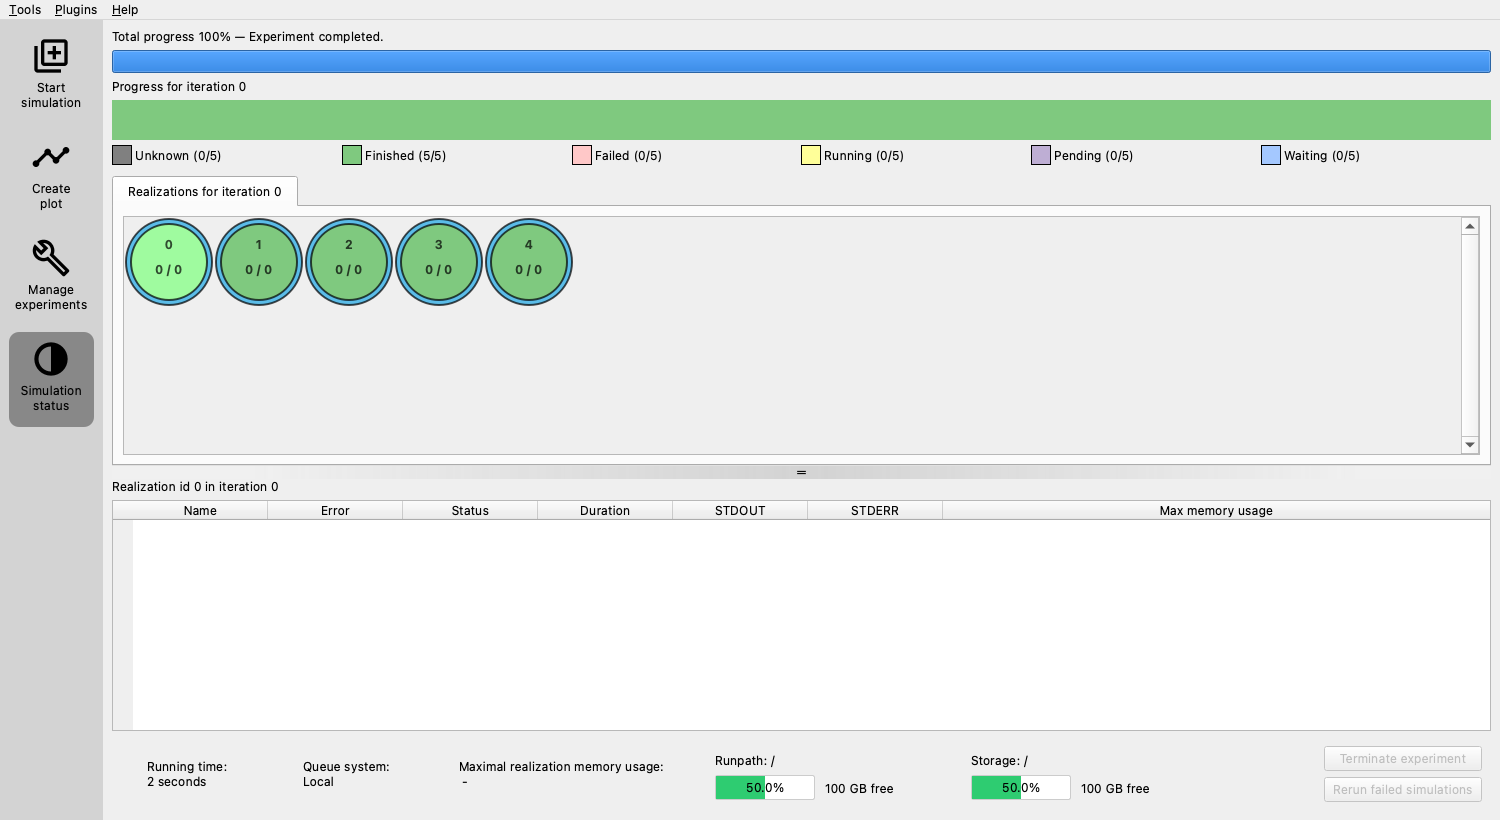
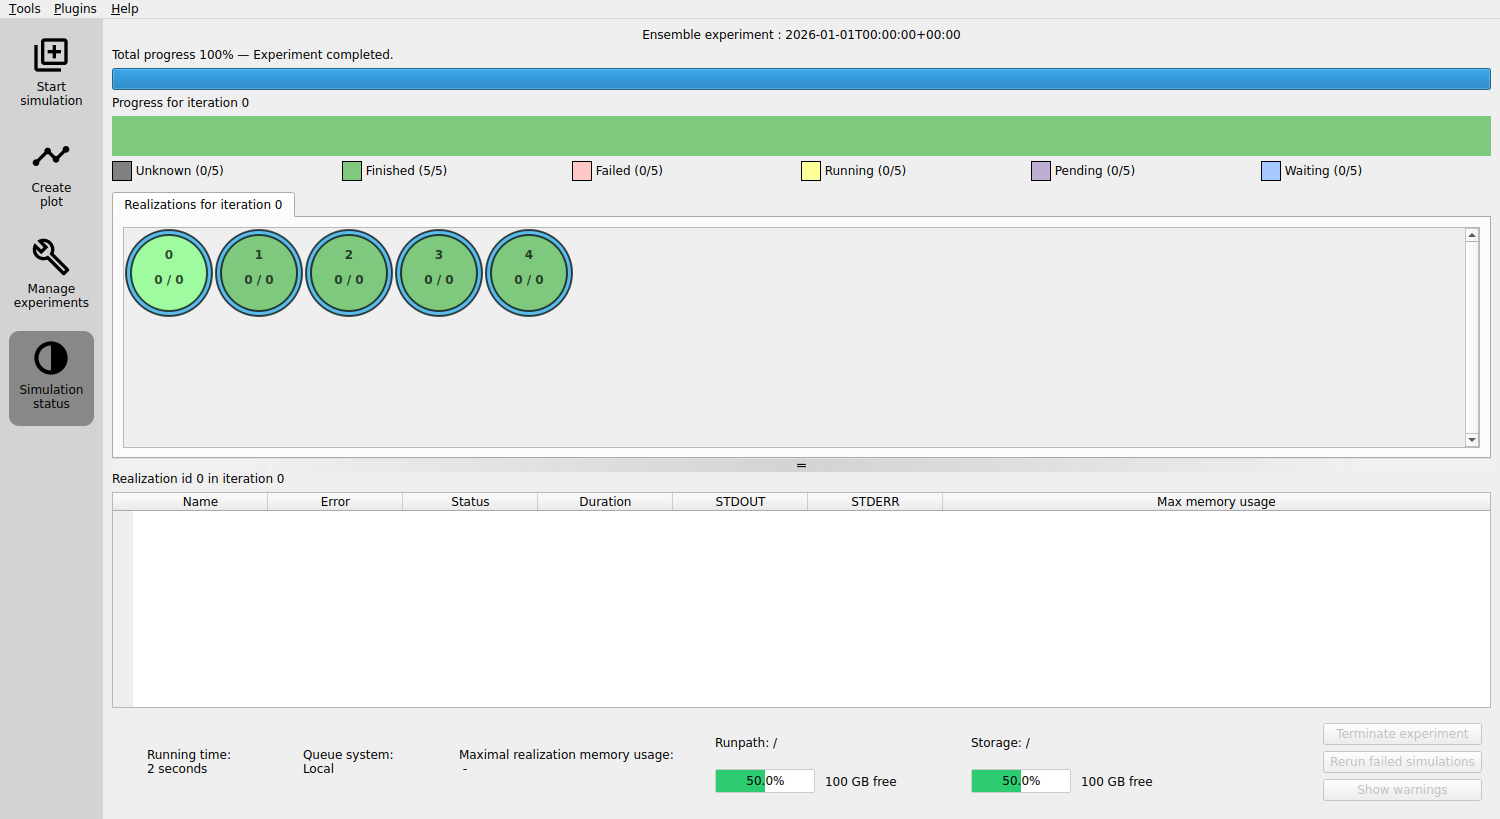
Visually clarify which experiment is opened
As it might be difficult to distinguish which experiment is currently
selected when several experiments of the same type are run:
- add label to the Run Dialog panel stating current experiment
- mark currently chosen experiment in the menu. "Bold" font for marking
was chosen as relatively simple and relatively UI consistent option.

diff --git a/tests/ert/ui_tests/gui/test_main_window.py b/tests/ert/ui_tests/gui/test_main_window.py
@@ -905,6 +905,71 @@ def test_that_simulation_status_button_adds_menu_on_subsequent_runs(
         find_and_check_selected("button_Simulation_status", True)
 
 
+def test_that_visible_experiment_label_matches_bold_simulation_menu_action(
+    opened_main_window_poly, qtbot, run_experiment
+):
+    gui = opened_main_window_poly
+
+    runs = {}
+    actions = {}
+    titles = []
+
+    def retrieve_latest_dialog_title(expected_dialogs_number):
+        run_dialogs = get_children(gui, RunDialog)
+        assert len(run_dialogs) == expected_dialogs_number
+        latest_run_dialog = run_dialogs[-1]
+        latest_run_title = latest_run_dialog._experiment_name_label.text()
+        # all titles should be different because run_experiment fixture takes >1s
+        assert latest_run_title not in titles
+        titles.append(latest_run_title)
+        runs[latest_run_title] = latest_run_dialog
+
+    def retrieve_existing_menu_actions(expected_actions_number):
+        simulation_status_menu = gui.findChild(
+            SidebarToolButton, "button_Simulation_status"
+        ).menu()
+        assert len(simulation_status_menu.actions()) == expected_actions_number
+        for action in simulation_status_menu.actions():
+            actions[action.text()] = action
+
+    def verify_only_latest_run_is_marked_bold_and_dialog_visible_on_new_experiment():
+        for title in titles[:-1]:
+            assert not actions[title].font().bold()
+            assert runs[title].isHidden()
+
+        latest_run_title = titles[-1]
+        assert actions[latest_run_title].font().bold()
+        assert not runs[latest_run_title].isHidden()
+
+    def verify_clicking_on_action_changes_bold_action_and_visible_dialog():
+        first_run_title = titles[0]
+        first_run_dialog = runs[first_run_title]
+
+        latest_run_title = titles[-1]
+        currently_active_dialog = runs[latest_run_title]
+
+        first_run_action = actions[first_run_title]
+        first_run_action.trigger()
+        qtbot.wait_until(currently_active_dialog.isHidden, timeout=5000)
+        assert not first_run_dialog.isHidden()
+        assert actions[first_run_title].font().bold()
+
+    run_experiment(SingleTestRun, gui)
+    retrieve_latest_dialog_title(1)
+
+    run_experiment(SingleTestRun, gui)
+    retrieve_latest_dialog_title(2)
+    retrieve_existing_menu_actions(2)
+    verify_only_latest_run_is_marked_bold_and_dialog_visible_on_new_experiment()
+    verify_clicking_on_action_changes_bold_action_and_visible_dialog()
+
+    run_experiment(SingleTestRun, gui)
+    retrieve_latest_dialog_title(3)
+    retrieve_existing_menu_actions(3)
+    verify_only_latest_run_is_marked_bold_and_dialog_visible_on_new_experiment()
+    verify_clicking_on_action_changes_bold_action_and_visible_dialog()
+
+
 def test_warnings_from_forward_model_are_propagated_to_ert_main_window_post_simulation(
     qtbot, opened_main_window_poly, use_tmpdir
 ):

diff --git a/tests/ert/ui_tests/gui/conftest.py b/tests/ert/ui_tests/gui/conftest.py
@@ -268,6 +268,10 @@ def run_experiment_fixture(request):
         qtbot = QtBot(request)
         with contextlib.suppress(FileNotFoundError):
             shutil.rmtree("poly_out")
+
+        button = gui.findChild(QToolButton, "button_Start_simulation")
+        qtbot.mouseClick(button, Qt.MouseButton.LeftButton)
+
         # Select correct experiment in the simulation panel
         experiment_panel = get_child(gui, ExperimentPanel)
         simulation_mode_combo = get_child(experiment_panel, QComboBox)
@@ -297,7 +301,8 @@ def run_experiment_fixture(request):
         if click_done:
             # The Run dialog opens, click show details and wait until done appears
             # then click it
-            run_dialog = wait_for_child(gui, qtbot, RunDialog, timeout=10000)
+            qtbot.waitUntil(lambda: gui.findChild(RunDialog) is not None, timeout=10000)
+            run_dialog = get_children(gui, RunDialog)[-1]
             qtbot.waitUntil(
                 lambda: run_dialog.is_simulation_done() is True, timeout=200000
             )
@@ -308,10 +313,12 @@ def run_experiment_fixture(request):
             realization_widget = run_dialog._tab_widget.currentWidget()
             assert isinstance(realization_widget, RealizationWidget)
             list_model = realization_widget._real_view.model()
-            assert (
-                list_model.rowCount()
-                == experiment_panel.config.runpath_config.num_realizations
+            expected_num_realizations = (
+                experiment_panel.config.runpath_config.num_realizations
             )
+            if experiment_mode.name() == "Single realization test-run":
+                expected_num_realizations = 1
+            assert list_model.rowCount() == expected_num_realizations
 
     return func
 

diff --git a/src/ert/gui/main_window.py b/src/ert/gui/main_window.py
@@ -1,6 +1,5 @@
 from __future__ import annotations
 
-import datetime
 import functools
 import logging
 import webbrowser
@@ -235,14 +234,16 @@ class ErtMainWindow(QMainWindow):
             widget.setVisible(False)
 
         run_dialog.setParent(self)
-        date_time: str = datetime.datetime.now(datetime.UTC).isoformat(
-            timespec="seconds"
-        )
-        experiment_type = run_dialog._run_model_api.experiment_name
-        simulation_id = experiment_type + " : " + date_time
+        simulation_id = run_dialog.property("experiment_name")
         self.central_panels_map[simulation_id] = run_dialog
         self.run_dialog_counter += 1
         self.central_layout.addWidget(run_dialog)
+
+        def mark_action_bold(menu: QMenu, action_to_mark: QAction) -> None:
+            for action in menu.actions():
+                font = action.font()
+                font.setBold(action is action_to_mark)
+                action.setFont(font)
 
         def add_sim_run_option(simulation_id: str) -> None:
             menu = self.results_button.menu()
@@ -251,11 +252,13 @@ class ErtMainWindow(QMainWindow):
                 act = QAction(text=simulation_id, parent=menu)
                 act.setProperty("index", simulation_id)
                 act.triggered.connect(self.select_central_widget)
+                act.triggered.connect(lambda _: mark_action_bold(menu, act))
 
                 if action_list:
                     menu.insertAction(action_list[0], act)
                 else:
                     menu.addAction(act)
+                mark_action_bold(menu, menu.actions()[0])
 
         if self.run_dialog_counter == 2:
             # swap from button to menu selection

diff --git a/src/ert/gui/simulation/run_dialog.py b/src/ert/gui/simulation/run_dialog.py
@@ -1,7 +1,7 @@
 from __future__ import annotations
 
 import logging
-from datetime import datetime
+from datetime import UTC, datetime
 from pathlib import Path
 from queue import SimpleQueue
 from typing import cast
@@ -244,6 +244,15 @@ class RunDialog(QFrame):
             self,
         )
 
+        date_time: str = datetime.now(UTC).isoformat(timespec="seconds")
+        experiment_type = self._run_model_api.experiment_name
+        simulation_id = experiment_type + " : " + date_time
+
+        self._experiment_name_label = QLabel(self)
+        self._experiment_name_label.setText(simulation_id)
+        self._experiment_name_label.setAlignment(Qt.AlignmentFlag.AlignCenter)
+        self.setProperty("experiment_name", simulation_id)
+
         self._total_progress_bar = QProgressBar(self)
         self._total_progress_bar.setRange(0, 100)
         self._total_progress_bar.setTextVisible(False)
@@ -325,6 +334,7 @@ class RunDialog(QFrame):
         footer_widget_container.setLayout(footer_layout)
 
         layout = QVBoxLayout()
+        layout.addWidget(self._experiment_name_label)
         layout.addWidget(self._total_progress_label)
         layout.addWidget(self._total_progress_bar)
         layout.addWidget(self._iteration_progress_label)

diff --git a/tests/ert/ui_tests/gui/test_docs_screenshots.py b/tests/ert/ui_tests/gui/test_docs_screenshots.py
@@ -324,9 +324,12 @@ def test_that_poly_new_minimal_screenshots_are_up_to_date(
 
     run_experiment(qtbot, EnsembleExperiment, gui)
 
-    # Set static values for running time to not trigger false gui change detection
+    # Set static values for dynamic labels to not trigger false gui change detection
     run_dialog = get_child(gui, RunDialog)
     run_dialog._on_ticker()
+    run_dialog._experiment_name_label.setText(
+        "Ensemble experiment : 2026-01-01T00:00:00+00:00"
+    )
     run_dialog.running_time.setText("Running time:\n2 seconds")
 
     gui_evaluator.compare_img_with_gui("simulations.png", SIMULATIONS_PNG_THRESHOLD)
